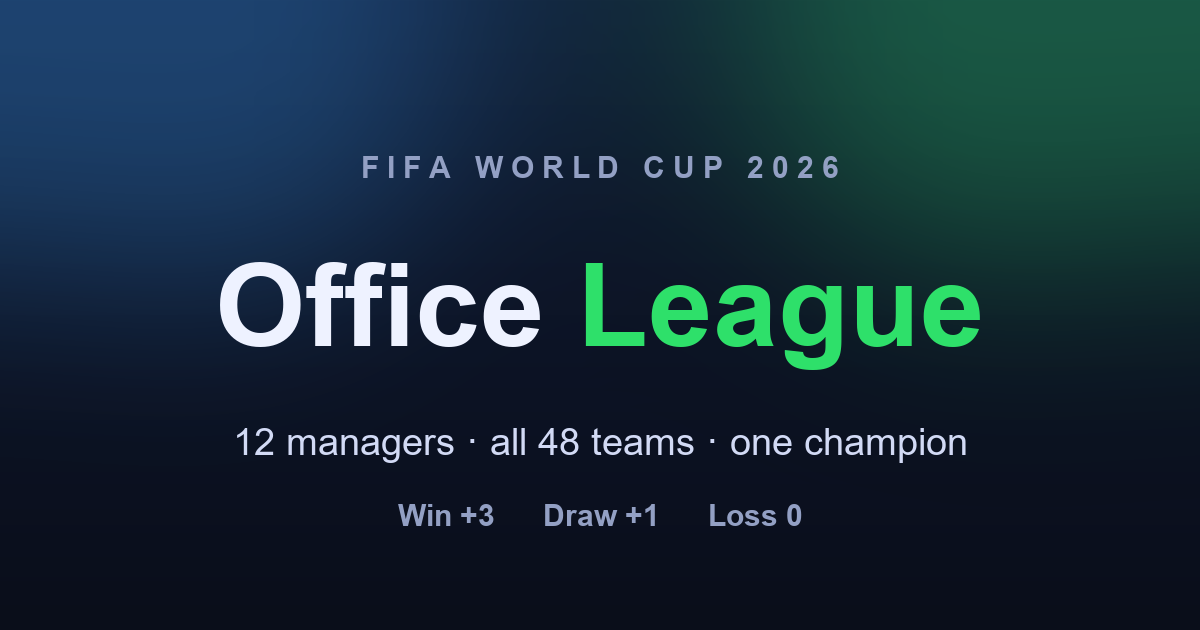
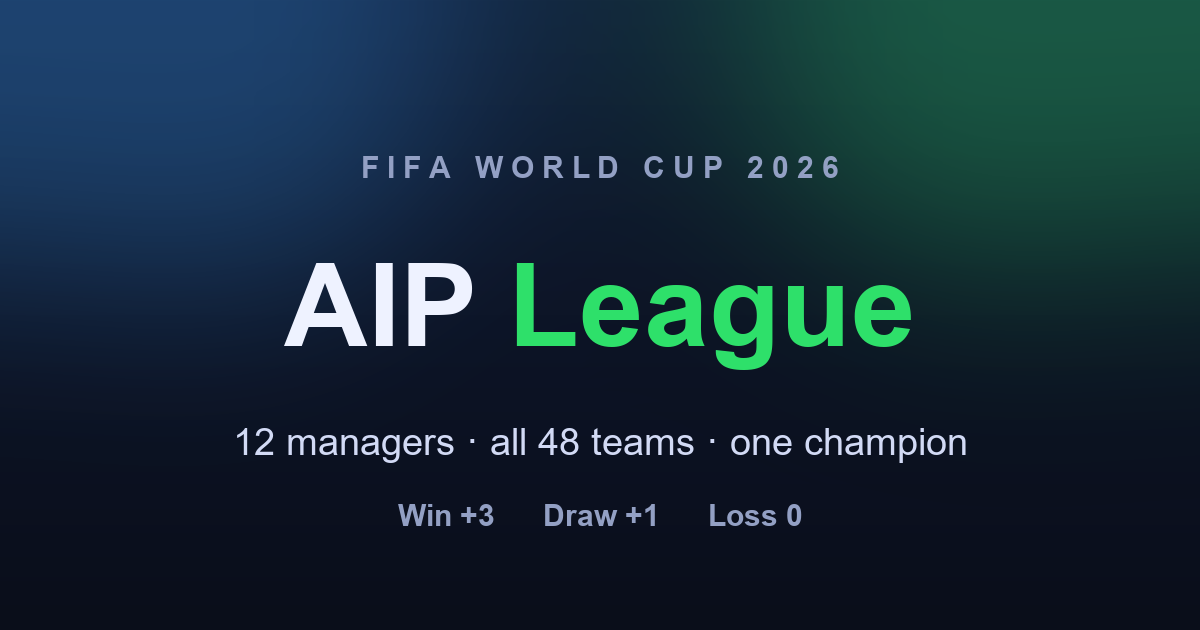
Rebrand Office League to AIP World Cup League (page, OG card, docs)

Changed region(s): [[0.185, 0.3921, 0.8325, 0.6032]]

diff --git a/index.html b/index.html
@@ -3,17 +3,17 @@
 <head>
 <meta charset="utf-8" />
 <meta name="viewport" content="width=device-width, initial-scale=1" />
-<title>Office World Cup League 2026</title>
+<title>AIP World Cup League 2026</title>
 <meta name="theme-color" content="#0a0e1a" />
-<meta property="og:title" content="Office World Cup League 2026 🏆" />
-<meta property="og:description" content="12 managers, 4 teams each, all 48 World Cup teams. +3 win / +1 draw / −1 loss. Who's on top?" />
+<meta property="og:title" content="AIP World Cup League 2026 🏆" />
+<meta property="og:description" content="12 managers, 4 teams each, all 48 World Cup teams. +3 win / +1 draw / 0 loss. Who's on top?" />
 <meta property="og:type" content="website" />
 <meta property="og:url" content="https://talos91.github.io/worldcup-game-office/" />
 <meta property="og:image" content="https://talos91.github.io/worldcup-game-office/og.png" />
 <meta property="og:image:width" content="1200" />
 <meta property="og:image:height" content="630" />
 <meta name="twitter:card" content="summary_large_image" />
-<meta name="twitter:title" content="Office World Cup League 2026 🏆" />
+<meta name="twitter:title" content="AIP World Cup League 2026 🏆" />
 <meta name="twitter:description" content="12 managers, all 48 World Cup teams. Who's on top?" />
 <meta name="twitter:image" content="https://talos91.github.io/worldcup-game-office/og.png" />
 <style>
@@ -192,8 +192,8 @@
 <body>
   <div class="wrap">
     <header class="top">
-      <div class="kicker">FIFA World Cup 2026 · Office League</div>
-      <h1>🏆 Office World Cup League</h1>
+      <div class="kicker">FIFA World Cup 2026 · AIP League</div>
+      <h1>🏆 AIP World Cup League</h1>
       <div class="live-pill" id="livePill"><span class="dot"></span> Match in play</div>
     </header>
     <div id="app"><div class="state">Loading the league…</div></div>

diff --git a/gen_og.py b/gen_og.py
@@ -39,7 +39,7 @@ def center(y, text, fnt, fill):
 center(150, "F I F A   W O R L D   C U P   2 0 2 6", font(BOLD, 30), (147, 160, 196))
 
 tf = font(BOLD, 116)
-segs = [("Office ", (238, 242, 255)), ("League", (46, 224, 106))]
+segs = [("AIP ", (238, 242, 255)), ("League", (46, 224, 106))]
 total = sum(d.textlength(s, font=tf) for s, _ in segs)
 x, ty = (W - total) / 2, 240
 for s, col in segs:

diff --git a/README.md b/README.md
@@ -1,6 +1,6 @@
-# Office World Cup League 2026 🏆
+# AIP World Cup League 2026 🏆
 
-An auto-updating World Cup sweepstake for the whole office. **12 managers** drafted
+An auto-updating World Cup sweepstake for everyone at AIP. **12 managers** drafted
 **4 teams each** — all 48 World Cup teams are owned, so every single match is a
 duel between two managers.
 

diff --git a/CLAUDE.md b/CLAUDE.md
@@ -1,4 +1,4 @@
-# CLAUDE.md — Office World Cup League 2026
+# CLAUDE.md — AIP World Cup League 2026 (a.k.a. the office league)
 
 Working notes for Claude sessions. This is the **office** spin-off of the
 Nicha-vs-Daniele tracker (`C:\Users\itisf\worldcup-game`), generalised from 2

diff --git a/CHANGELOG.md b/CHANGELOG.md
@@ -6,6 +6,7 @@
   scorelines stay in the Recent results feed.
 - Added **legends** (P / W / D / L / GD / Pts, and the W-L-D record) and a
   **version number** (v1.0) in the footer.
+- Renamed **Office League → AIP World Cup League** (title, header, link preview).
 
 ## 2026-06-17 — initial build (office league)
 - Adapted the Nicha-vs-Daniele tracker to a **12-manager office league** (all 48